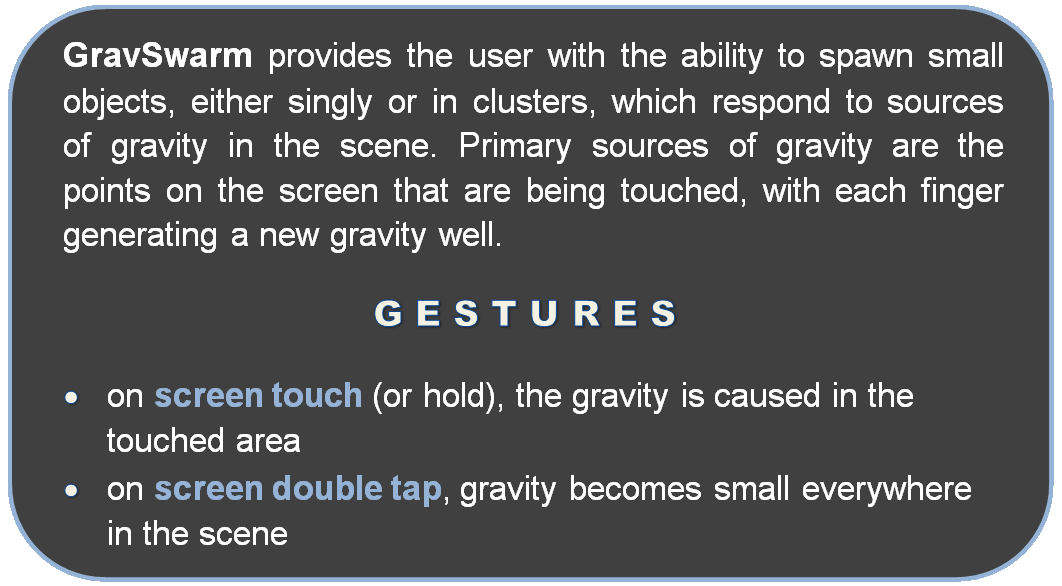
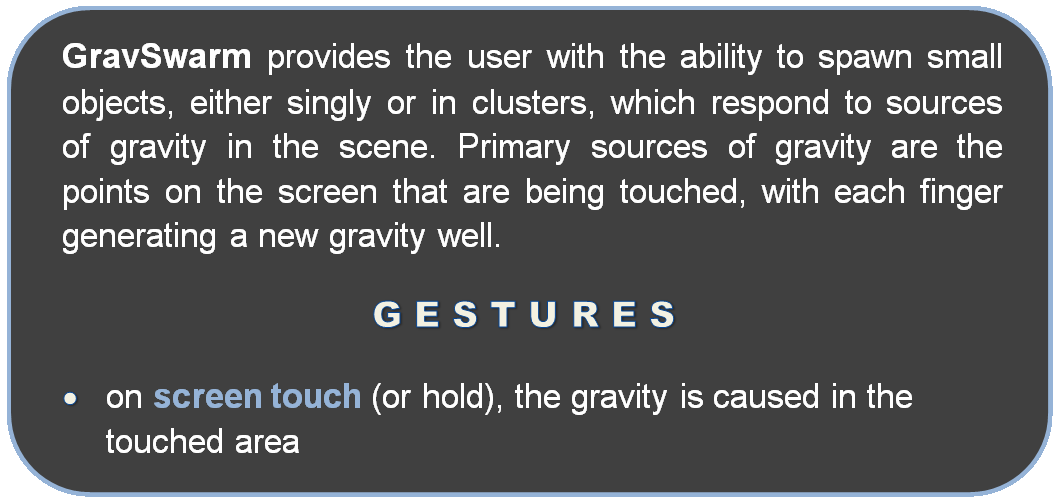
- changed TOUCH DEPTH Option 4 FROM 1.0f t 0.7f (LOCATED IN: assets\SettingsOptions\7_Options\7_option4.png)
- updated instructions-text.png (removed screen double tap from Settings screen)
(LOCATED IN: assets\instructions-text.png)

diff --git a/core/src/com/mygdx/gravswarm/SettingsScreen.java b/core/src/com/mygdx/gravswarm/SettingsScreen.java
@@ -114,7 +114,7 @@ public class SettingsScreen implements Screen
     Rectangle RTouchDepth_option1 = new Rectangle(40+324+40, (720-86-100)-(80*6), 89, 62);
     Rectangle RTouchDepth_option2 = new Rectangle(40+324+40+(89+20), (720-86-100)-(80*6), 89, 62);
     Rectangle RTouchDepth_option3 = new Rectangle(40+324+40+(89+20)+(89+20), (720-86-100)-(80*6), 89, 62);
-    Rectangle RTouchDepth_option4 = new Rectangle(40+324+40+(89+20)+(89+20)+(89+20), (720-86-100)-(80*6), 88, 62);
+    Rectangle RTouchDepth_option4 = new Rectangle(40+324+40+(89+20)+(89+20)+(89+20), (720-86-100)-(80*6), 89, 62);
 
 
     public SettingsScreen (final GravSwarm thisGame)
@@ -359,10 +359,10 @@ public class SettingsScreen implements Screen
             shape_render.rect(40+324+40+(89+20)+(89+20), (720-86-100)-(80*6), 89, 62);
             shape_render.rect(40+324+40+(89+20)+(89+20)-1, (720-86-100)-(80*6)-1, 89+2, 62+2);
         }
-        else if (TouchDepth_selected == 1.0f)
+        else if (TouchDepth_selected == 0.7f)
         {
-            shape_render.rect(40+324+40+(89+20)+(89+20)+(89+20), (720-86-100)-(80*6), 88, 62);
-            shape_render.rect(40+324+40+(89+20)+(89+20)+(89+20)-1, (720-86-100)-(80*6)-1, 88+2, 62+2);
+            shape_render.rect(40+324+40+(89+20)+(89+20)+(89+20), (720-86-100)-(80*6), 89, 62);
+            shape_render.rect(40+324+40+(89+20)+(89+20)+(89+20)-1, (720-86-100)-(80*6)-1, 89+2, 62+2);
         }
 
 
@@ -515,7 +515,7 @@ public class SettingsScreen implements Screen
             {
                 settingsSelectionSound.play();
                 Gdx.input.vibrate(20);
-                game.settings.setTOUCH_PLANE_DEPTH((float) 1.0);        // set touch depth to 1.0
+                game.settings.setTOUCH_PLANE_DEPTH((float) 0.7);         // set touch depth to 0.7
             }
         }
 

diff --git a/core/src/com/mygdx/gravswarm/InstructionsScreen.java b/core/src/com/mygdx/gravswarm/InstructionsScreen.java
@@ -60,7 +60,7 @@ public class InstructionsScreen implements Screen
         game.batch.begin();
         game.batch.draw(appBackground, 0, 0);
         game.batch.draw(Instructions_header, 0, 720-86);
-        game.batch.draw(Instructions_text, 1280/2 - 1062/2, 25);
+        game.batch.draw(Instructions_text, 1280/2 - 1059/2, 65);
         game.batch.draw(backButton, 0, 720-86);
 
         game.batch.end();
